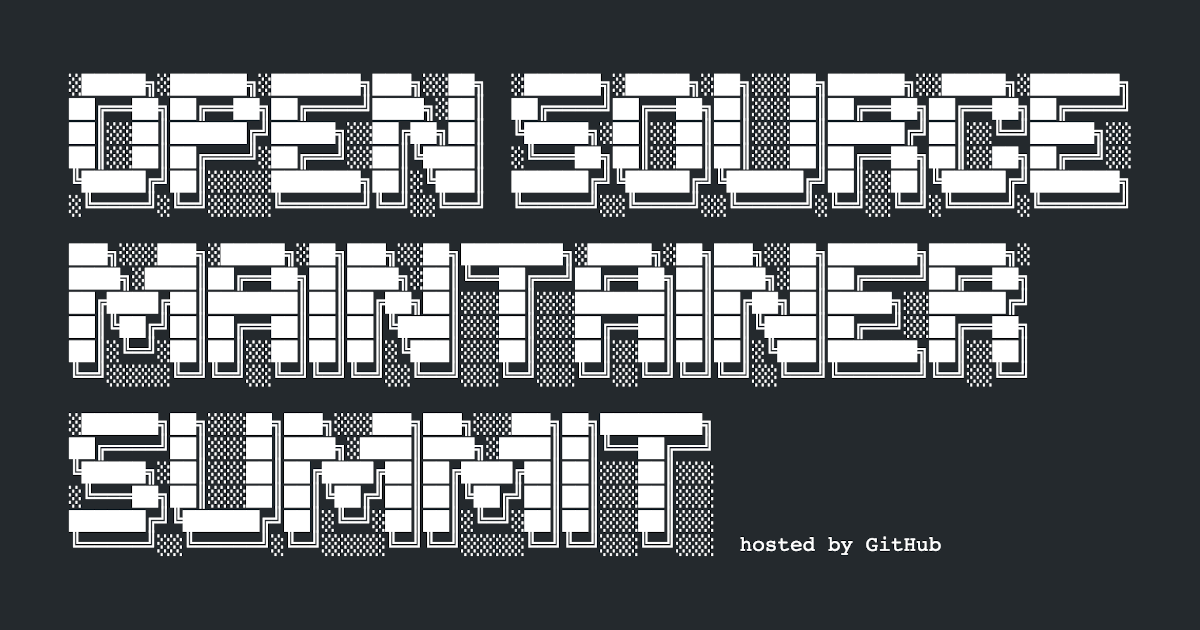
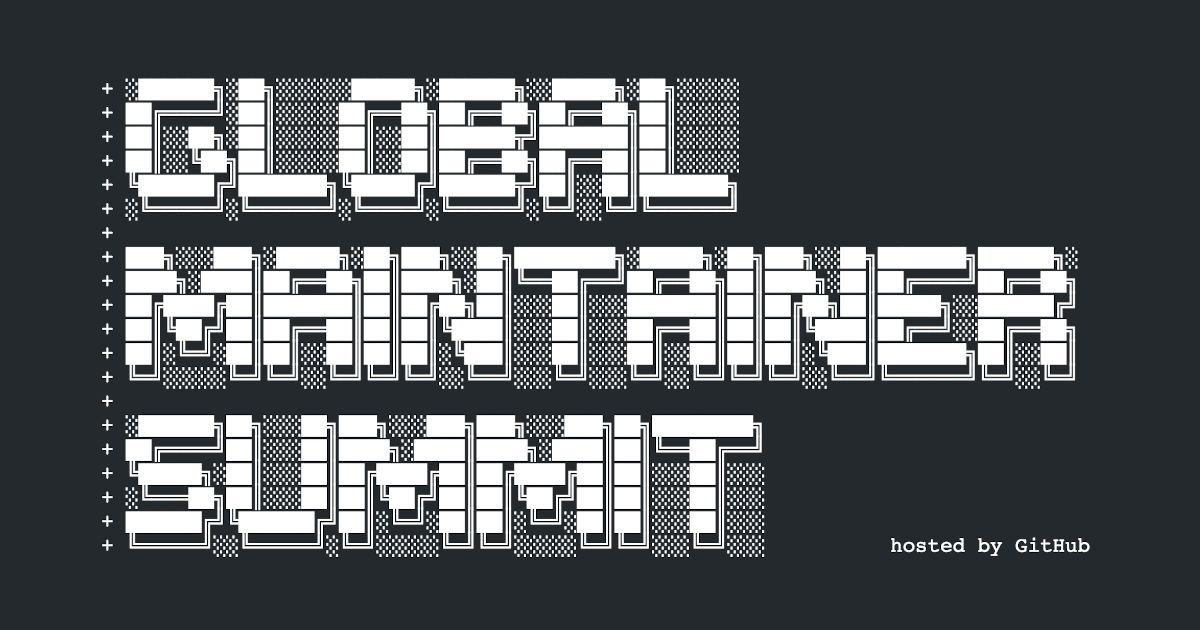
Update name

diff --git a/index.html b/index.html
@@ -3,20 +3,20 @@
 <head>
   <title>Open Source Maintainer Summit - June 7-9 2021</title>
 
-  <meta property="og:url"           content="https://maintainer-summit.github.com/" />
+  <meta property="og:url"           content="https://globalmaintainersummit.github.com/" />
   <meta property="og:type"          content="website" />
-  <meta property="og:title"         content="Open Source Maintainer Summit · June 7-9 2021" />
+  <meta property="og:title"         content="Global Maintainer Summit · June 7-9 2021" />
   <meta property="og:description"   content="A virtual gathering for the maintainers that make open source possible." />
-  <meta property="og:image"         content="https://maintainer-summit.github.com/image.png" />
+  <meta property="og:image"         content="https://globalmaintainersummit.github.com/image.png" />
   <meta property="og:image:width"   content="1200" />
   <meta property="og:image:height"  content="630" />
 
   <meta name="twitter:card"         content="summary_large_image">
   <meta name="twitter:site"         content="@github">
   <meta name="twitter:creator"      content="@github">
-  <meta name="twitter:title"        content="Open Source Maintainer Summit · June 7-9 2021">
+  <meta name="twitter:title"        content="Global Maintainer Summit · June 7-9 2021">
   <meta name="twitter:description"  content="A virtual gathering for the maintainers that make open source possible.">
-  <meta name="twitter:image"        content="https://maintainer-summit.github.com/image.png">
+  <meta name="twitter:image"        content="hhttps://globalmaintainersummit.github.com/image.png">
   
   <meta name="viewport" content="width=device-width, initial-scale=1">
 </head>
@@ -41,26 +41,26 @@
     +++ b/index.htm
     @@ -0,0 +1,25 @@
     +
-    +  ░█████╗░██████╗░███████╗███╗░░██╗  ░██████╗░█████╗░██╗░░░██╗██████╗░░█████╗░███████╗
-    +  ██╔══██╗██╔══██╗██╔════╝████╗░██║  ██╔════╝██╔══██╗██║░░░██║██╔══██╗██╔══██╗██╔════╝
-    +  ██║░░██║██████╔╝█████╗░░██╔██╗██║  ╚█████╗░██║░░██║██║░░░██║██████╔╝██║░░╚═╝█████╗░░
-    +  ██║░░██║██╔═══╝░██╔══╝░░██║╚████║  ░╚═══██╗██║░░██║██║░░░██║██╔══██╗██║░░██╗██╔══╝░░
-    +  ╚█████╔╝██║░░░░░███████╗██║░╚███║  ██████╔╝╚█████╔╝╚██████╔╝██║░░██║╚█████╔╝███████╗
-    +  ░╚════╝░╚═╝░░░░░╚══════╝╚═╝░░╚══╝  ╚═════╝░░╚════╝░░╚═════╝░╚═╝░░╚═╝░╚════╝░╚══════╝
-    +
-    +  ███╗░░░███╗░█████╗░██╗███╗░░██╗████████╗░█████╗░██╗███╗░░██╗███████╗██████╗░
-    +  ████╗░████║██╔══██╗██║████╗░██║╚══██╔══╝██╔══██╗██║████╗░██║██╔════╝██╔══██╗
-    +  ██╔████╔██║███████║██║██╔██╗██║░░░██║░░░███████║██║██╔██╗██║█████╗░░██████╔╝
-    +  ██║╚██╔╝██║██╔══██║██║██║╚████║░░░██║░░░██╔══██║██║██║╚████║██╔══╝░░██╔══██╗
-    +  ██║░╚═╝░██║██║░░██║██║██║░╚███║░░░██║░░░██║░░██║██║██║░╚███║███████╗██║░░██║
-    +  ╚═╝░░░░░╚═╝╚═╝░░╚═╝╚═╝╚═╝░░╚══╝░░░╚═╝░░░╚═╝░░╚═╝╚═╝╚═╝░░╚══╝╚══════╝╚═╝░░╚═╝
-    +
-    +  ░██████╗██╗░░░██╗███╗░░░███╗███╗░░░███╗██╗████████╗
-    +  ██╔════╝██║░░░██║████╗░████║████╗░████║██║╚══██╔══╝
-    +  ╚█████╗░██║░░░██║██╔████╔██║██╔████╔██║██║░░░██║░░░
-    +  ░╚═══██╗██║░░░██║██║╚██╔╝██║██║╚██╔╝██║██║░░░██║░░░
-    +  ██████╔╝╚██████╔╝██║░╚═╝░██║██║░╚═╝░██║██║░░░██║░░░
-    +  ╚═════╝░░╚═════╝░╚═╝░░░░░╚═╝╚═╝░░░░░╚═╝╚═╝░░░╚═╝░░░  hosted by GitHub
+    + ░██████╗░██╗░░░░░░█████╗░██████╗░░█████╗░██╗░░░░░
+    + ██╔════╝░██║░░░░░██╔══██╗██╔══██╗██╔══██╗██║░░░░░
+    + ██║░░██╗░██║░░░░░██║░░██║██████╦╝███████║██║░░░░░
+    + ██║░░╚██╗██║░░░░░██║░░██║██╔══██╗██╔══██║██║░░░░░
+    + ╚██████╔╝███████╗╚█████╔╝██████╦╝██║░░██║███████╗
+    + ░╚═════╝░╚══════╝░╚════╝░╚═════╝░╚═╝░░╚═╝╚══════╝
+    + 
+    + ███╗░░░███╗░█████╗░██╗███╗░░██╗████████╗░█████╗░██╗███╗░░██╗███████╗██████╗░
+    + ████╗░████║██╔══██╗██║████╗░██║╚══██╔══╝██╔══██╗██║████╗░██║██╔════╝██╔══██╗
+    + ██╔████╔██║███████║██║██╔██╗██║░░░██║░░░███████║██║██╔██╗██║█████╗░░██████╔╝
+    + ██║╚██╔╝██║██╔══██║██║██║╚████║░░░██║░░░██╔══██║██║██║╚████║██╔══╝░░██╔══██╗
+    + ██║░╚═╝░██║██║░░██║██║██║░╚███║░░░██║░░░██║░░██║██║██║░╚███║███████╗██║░░██║
+    + ╚═╝░░░░░╚═╝╚═╝░░╚═╝╚═╝╚═╝░░╚══╝░░░╚═╝░░░╚═╝░░╚═╝╚═╝╚═╝░░╚══╝╚══════╝╚═╝░░╚═╝
+    + 
+    + ░██████╗██╗░░░██╗███╗░░░███╗███╗░░░███╗██╗████████╗
+    + ██╔════╝██║░░░██║████╗░████║████╗░████║██║╚══██╔══╝
+    + ╚█████╗░██║░░░██║██╔████╔██║██╔████╔██║██║░░░██║░░░
+    + ░╚═══██╗██║░░░██║██║╚██╔╝██║██║╚██╔╝██║██║░░░██║░░░
+    + ██████╔╝╚██████╔╝██║░╚═╝░██║██║░╚═╝░██║██║░░░██║░░░
+    + ╚═════╝░░╚═════╝░╚═╝░░░░░╚═╝╚═╝░░░░░╚═╝╚═╝░░░╚═╝░░░          hosted by GitHub
     +
     +  June 7-9 2021
     +
